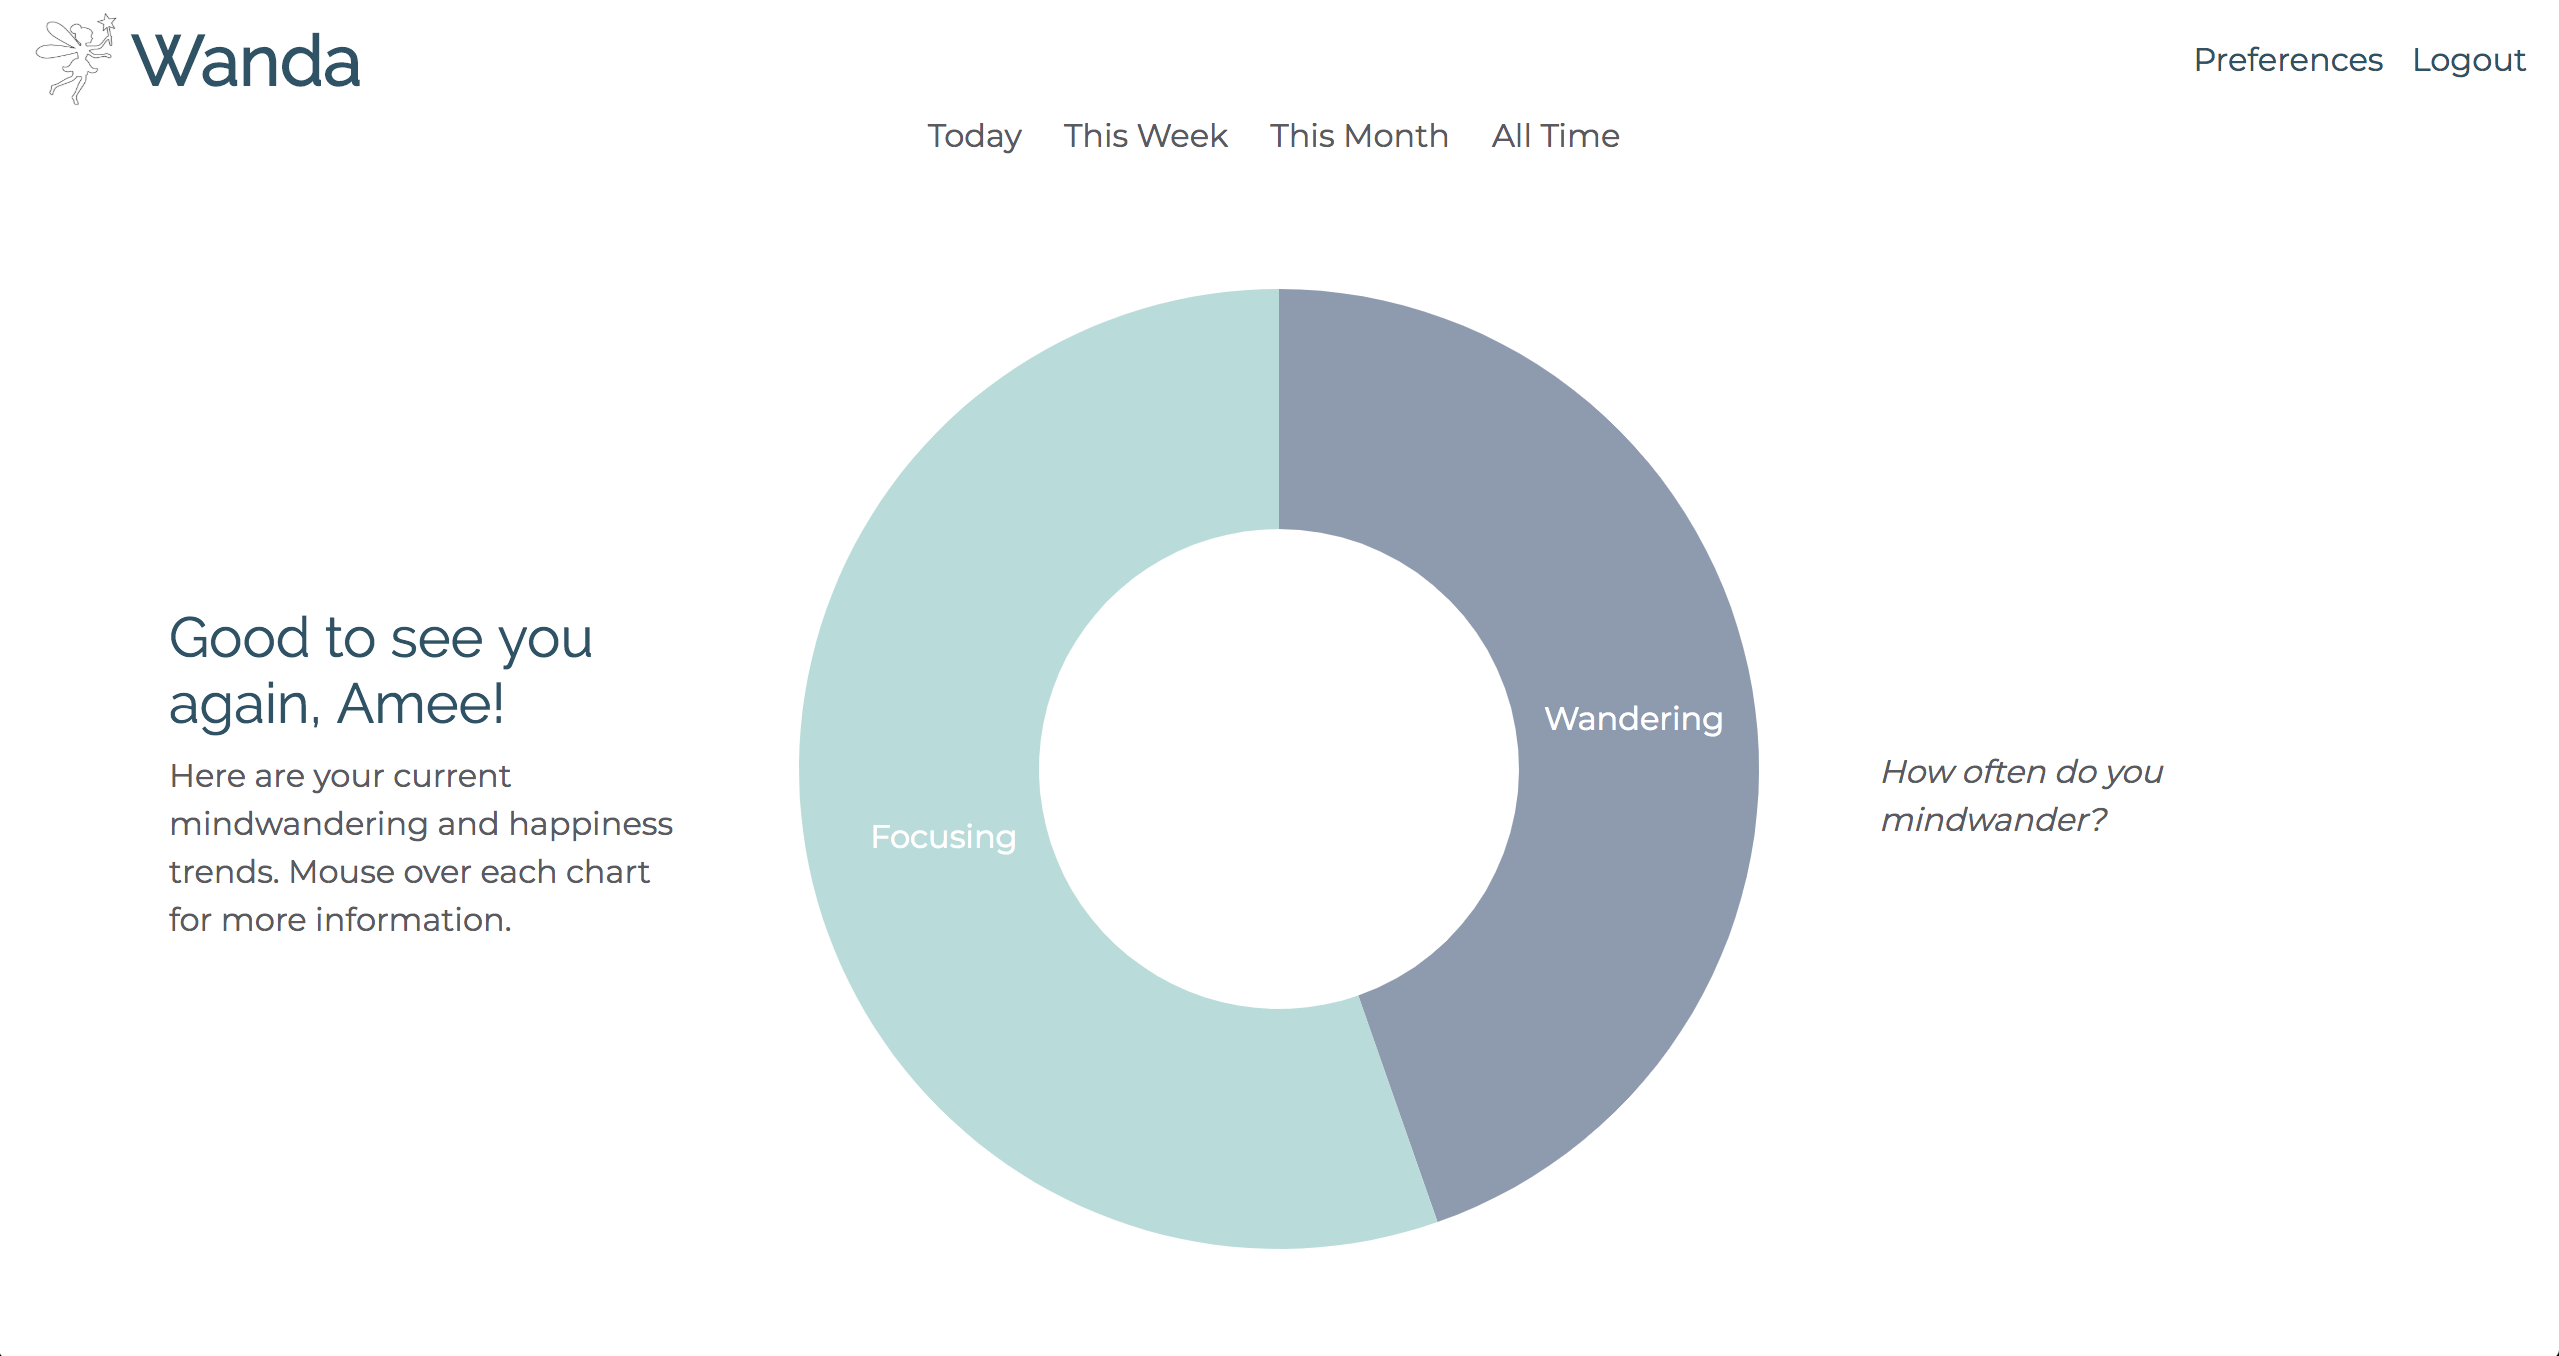
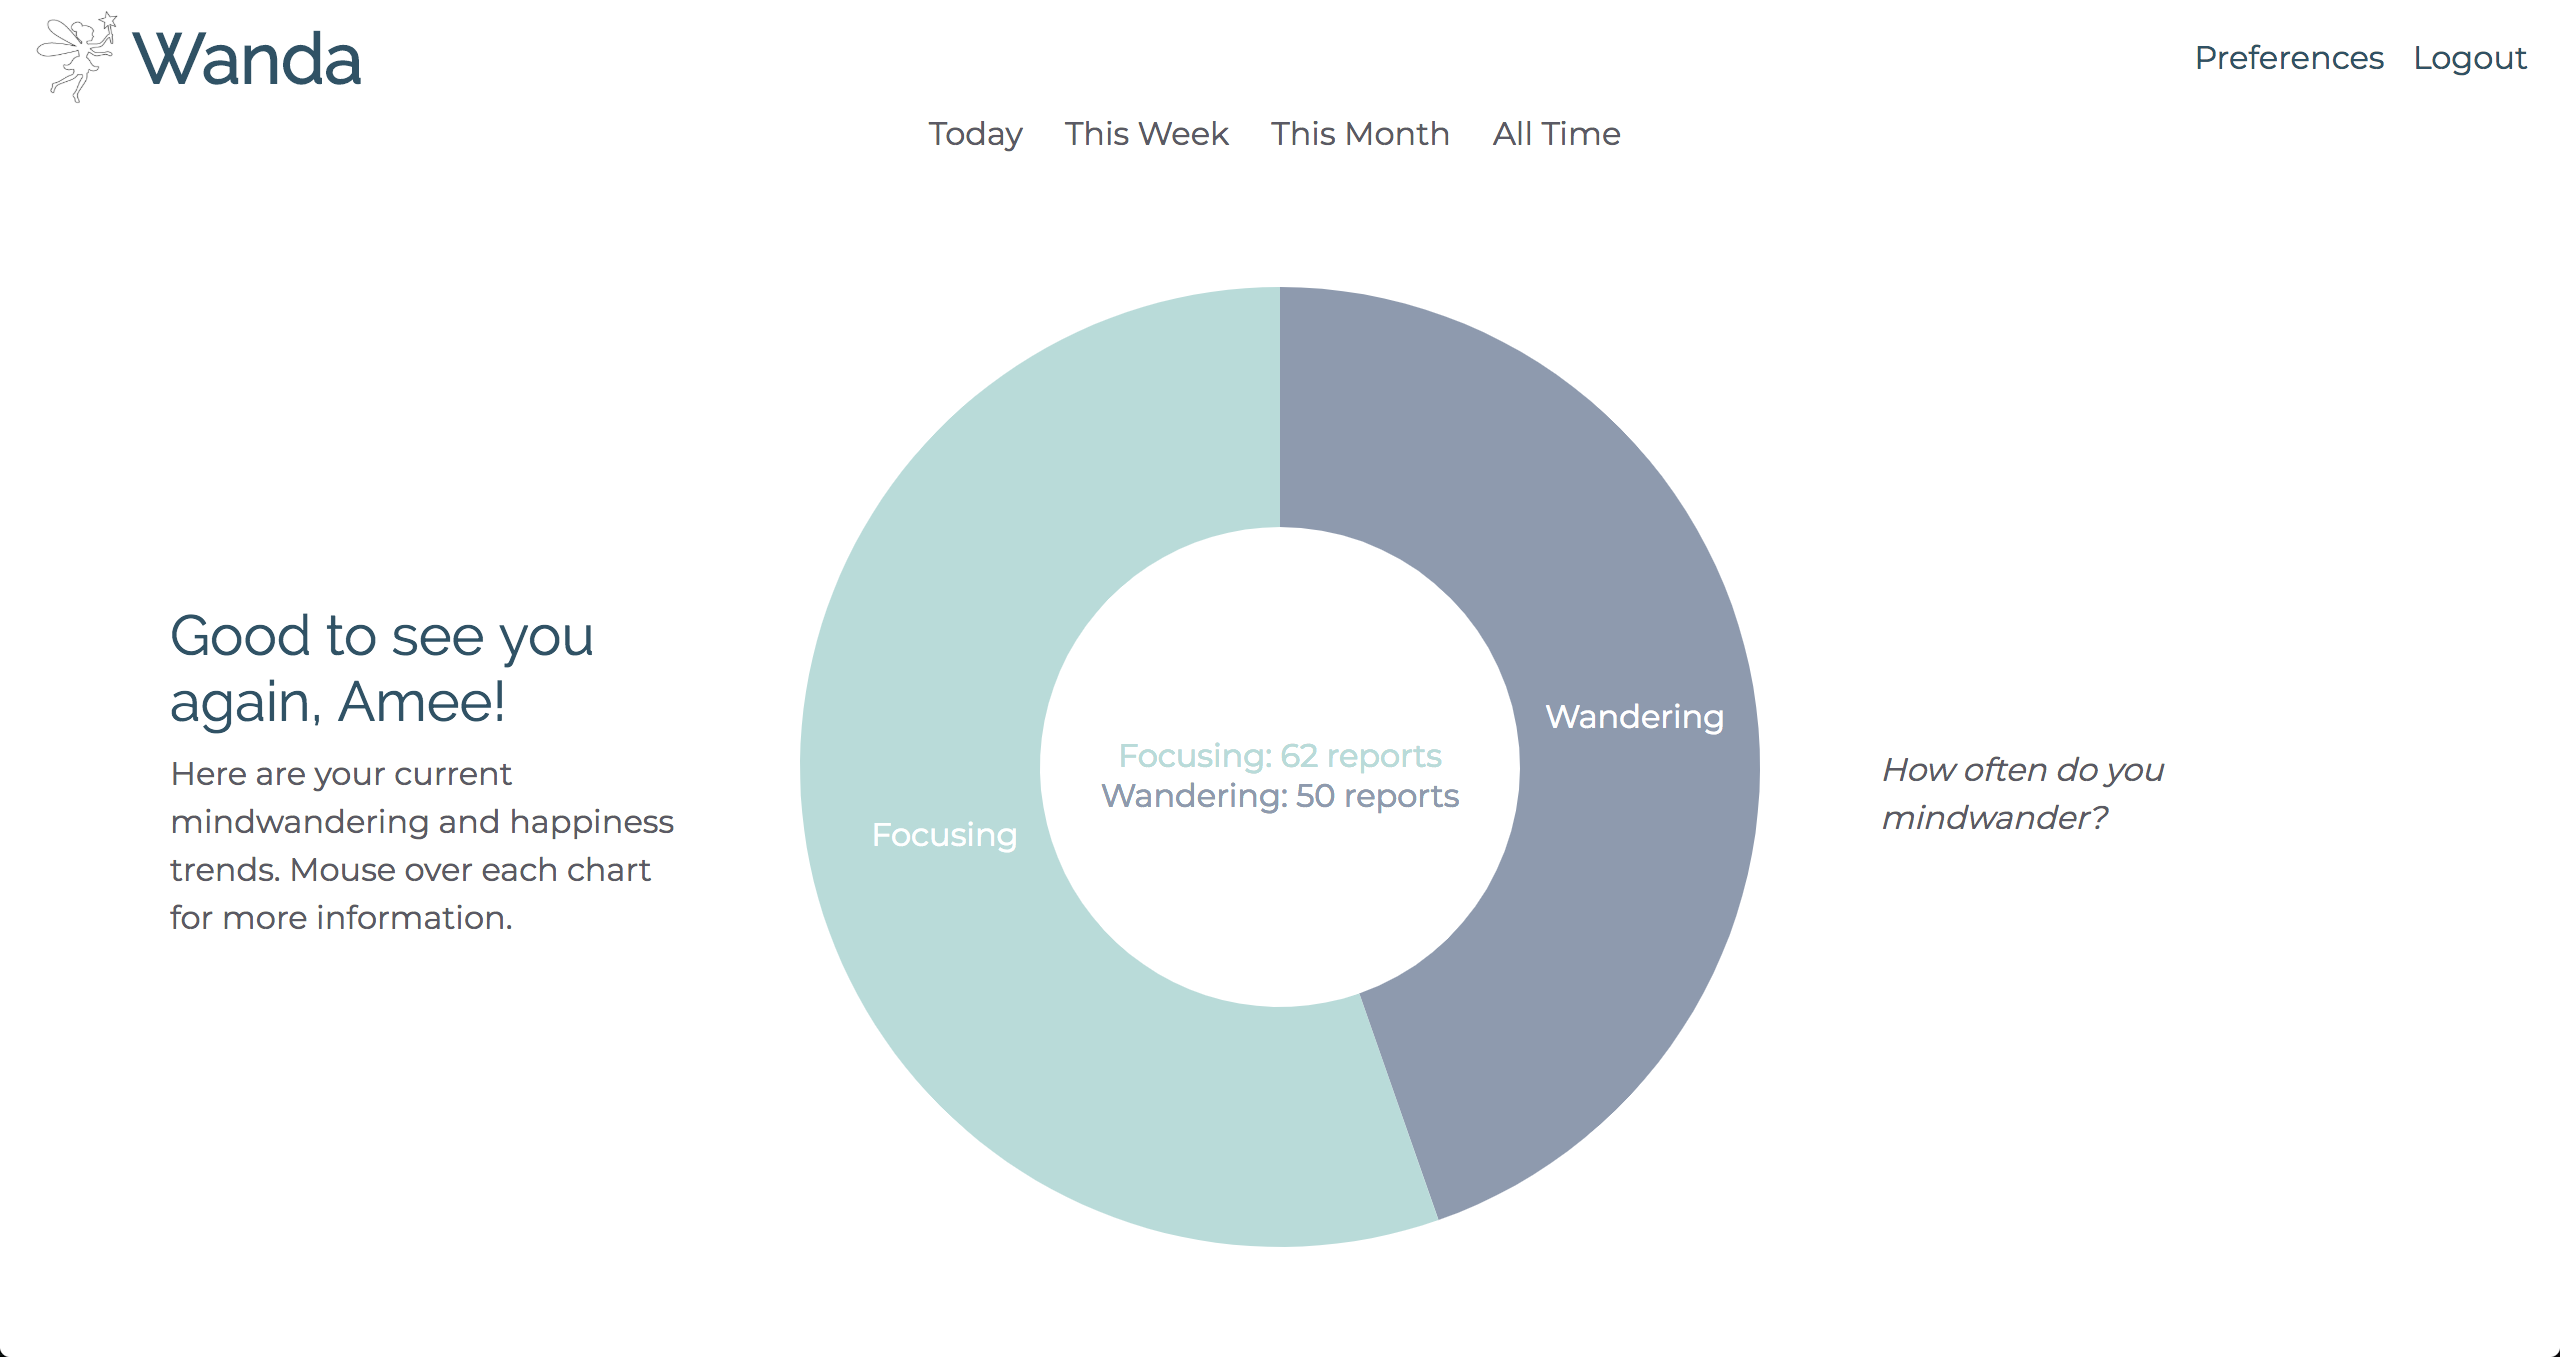
Added visuals and explanations to README.

diff --git a/README.md b/README.md
@@ -2,11 +2,11 @@
 
 ## Summary
 
-**Wanda** is a mindfulness tracker focused on improving a user's overall happiness and well-being.  It is inspired by a study by Harvard professor Daniel Gilbert, which revealed that humans mind-wander (think about something other than what they're doing) nearly half of the time, and  are significantly less happy when doing so. Wanda reminds users to focus on the present and gathers mind wandering and happiness data through text surveys sent throughout the day. The data is then used to create charts for the user to visualize the impact that mind wandering has on happiness with the goal of decreasing this habit over time.
+**Wanda** is a mindfulness tracker focused on improving a user's overall happiness and well-being.  It is inspired by a study by Harvard professor Daniel Gilbert, which revealed that humans mind-wander (think about something other than what they're doing) nearly half of the time, and are significantly less happy when doing so. Wanda reminds users to focus on the present and gathers mind wandering and happiness data through text surveys sent throughout the day. The data is then used to create charts for the user to visualize the impact that mind wandering has on happiness with the goal of decreasing this habit over time.
 
 ## About the Developer
 
-Wanda was created by Amee Li, a software engineer in San Francisco. Learn more about her on [LinkedIn](https://www.linkedin.com/in/ameeli/)
+Wanda was created by Amee Li, a software engineer in San Francisco. Learn more about her on [LinkedIn](https://www.linkedin.com/in/ameeli/).
 
 ## Technologies
 
@@ -27,3 +27,20 @@ Wanda was created by Amee Li, a software engineer in San Francisco. Learn more a
 
 Wanda is an app built on a Flask server with a PostgreSQL database, with SQLAlchemy as the ORM. The front end templating uses Jinja2, the HTML was built using Bootstrap, and the Javascript uses JQuery and AJAX to interact with the backend. The graphs are rendered using the D3 library. Texts interactions are created with through the Twilio API.
 
+## Features
+
+Wanda will check in by text message throughout the day and ask 2 questions: 
+1. Were you mind wandering? 
+2. On a scale of 1-10, how are you feeling?
+
+The data gathered from the text surveys is then visualized for the user in these responsive charts, generated using D3. Results can be filtered by time intervals (daily, weekly, monthly, all time).
+
+![alt text](https://github.com/ameeli/wanda/blob/master/src/static/img/wanda-donut.png)
+
+![alt text](https://github.com/ameeli/wanda/blob/master/src/static/img/wanda-graphs.png)
+
+## For Wanda 2.0
+
+- **Goals:** Users can set goals for reducing mind wandering and be rewarded for reaching them.
+- **Password hashing:** Hash passwords before saving to database.
+- **Survey:** Add additional productivity questions to text survey so users can see their optimal work times.
